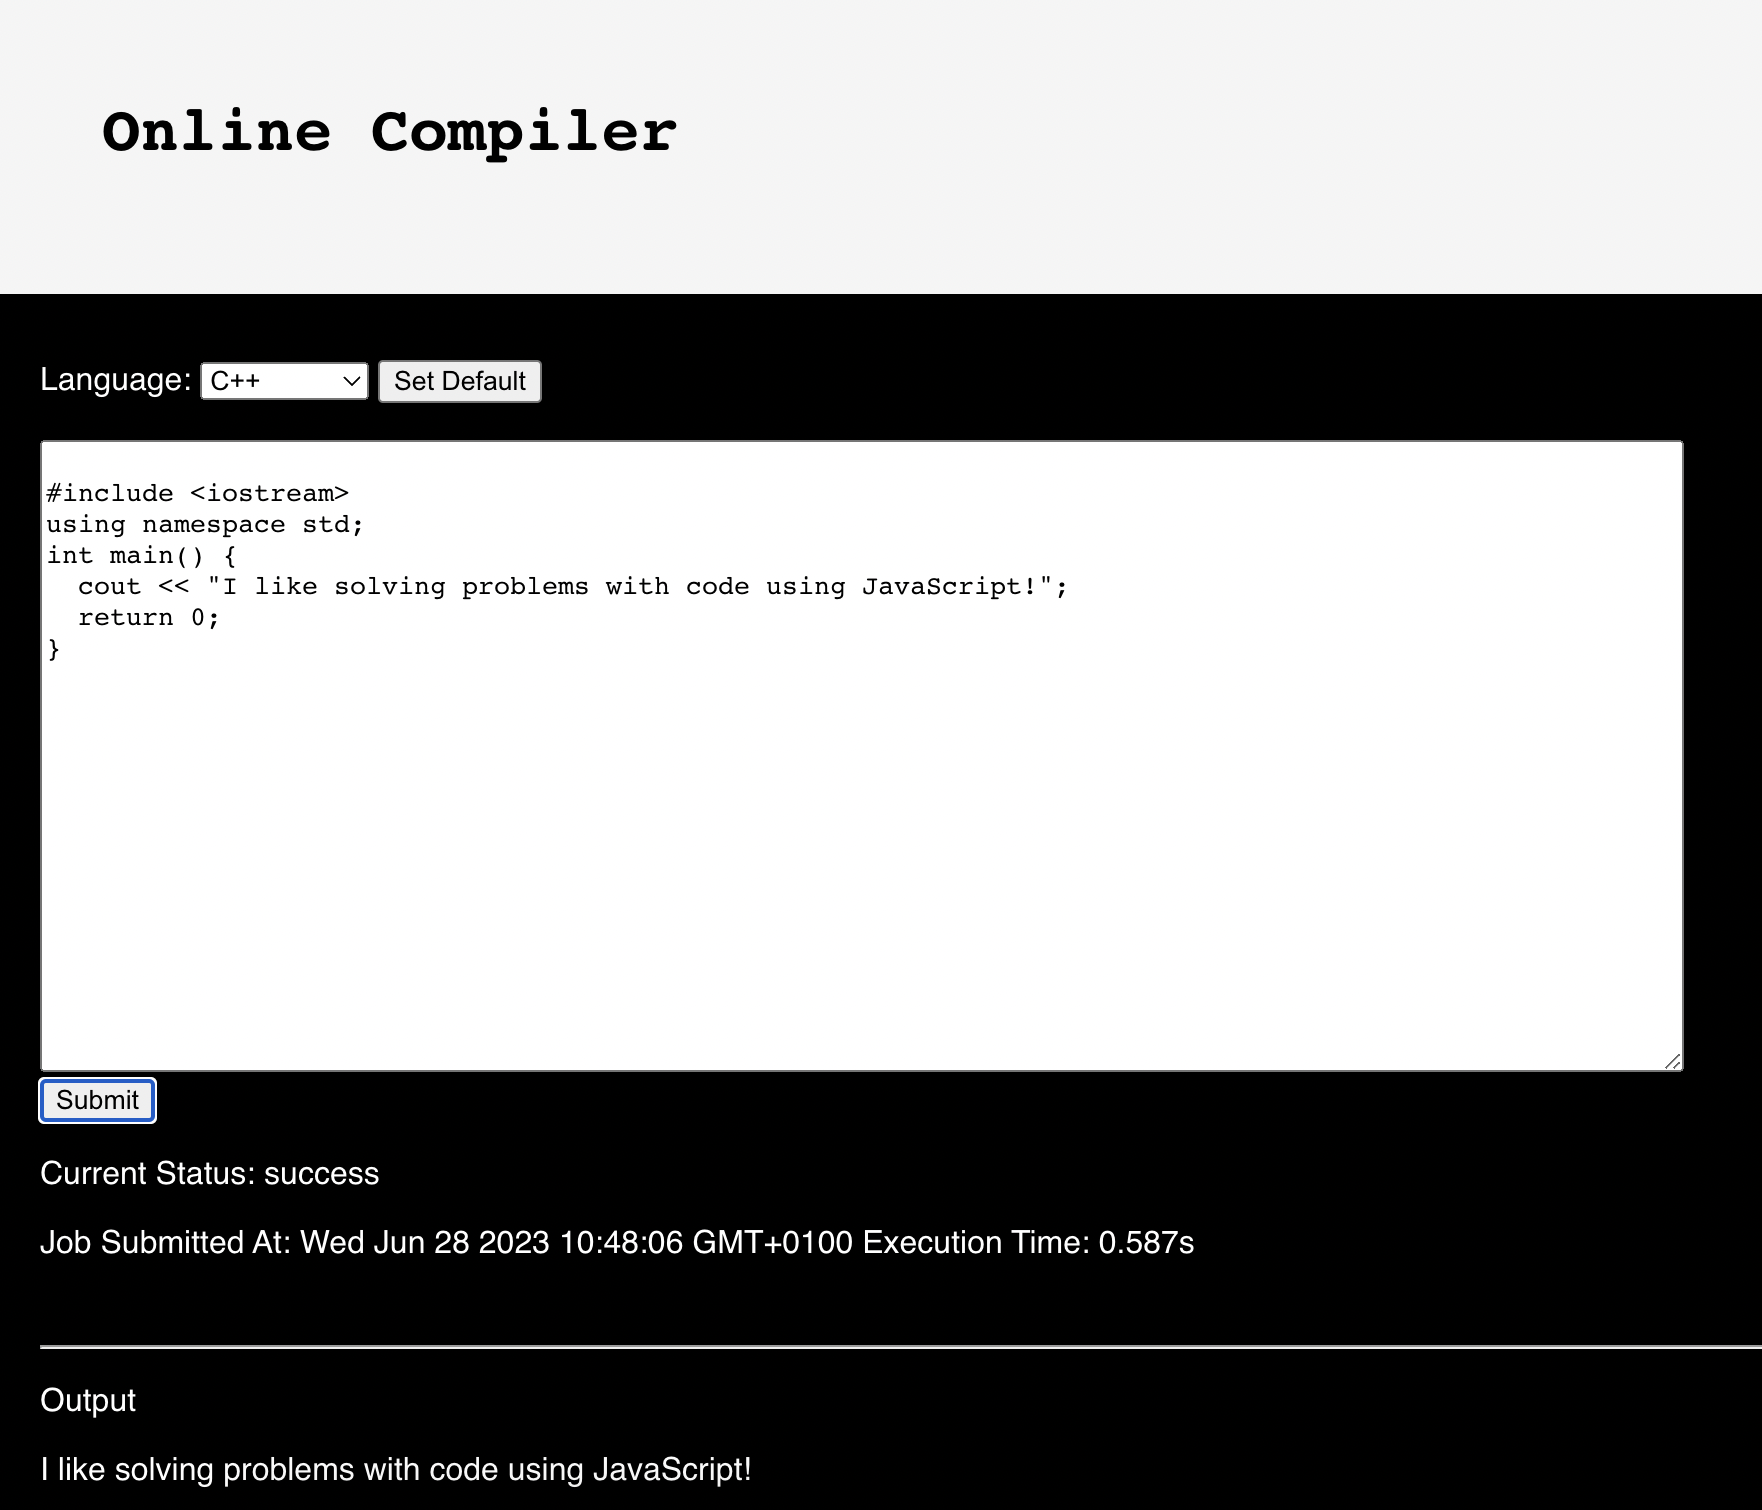
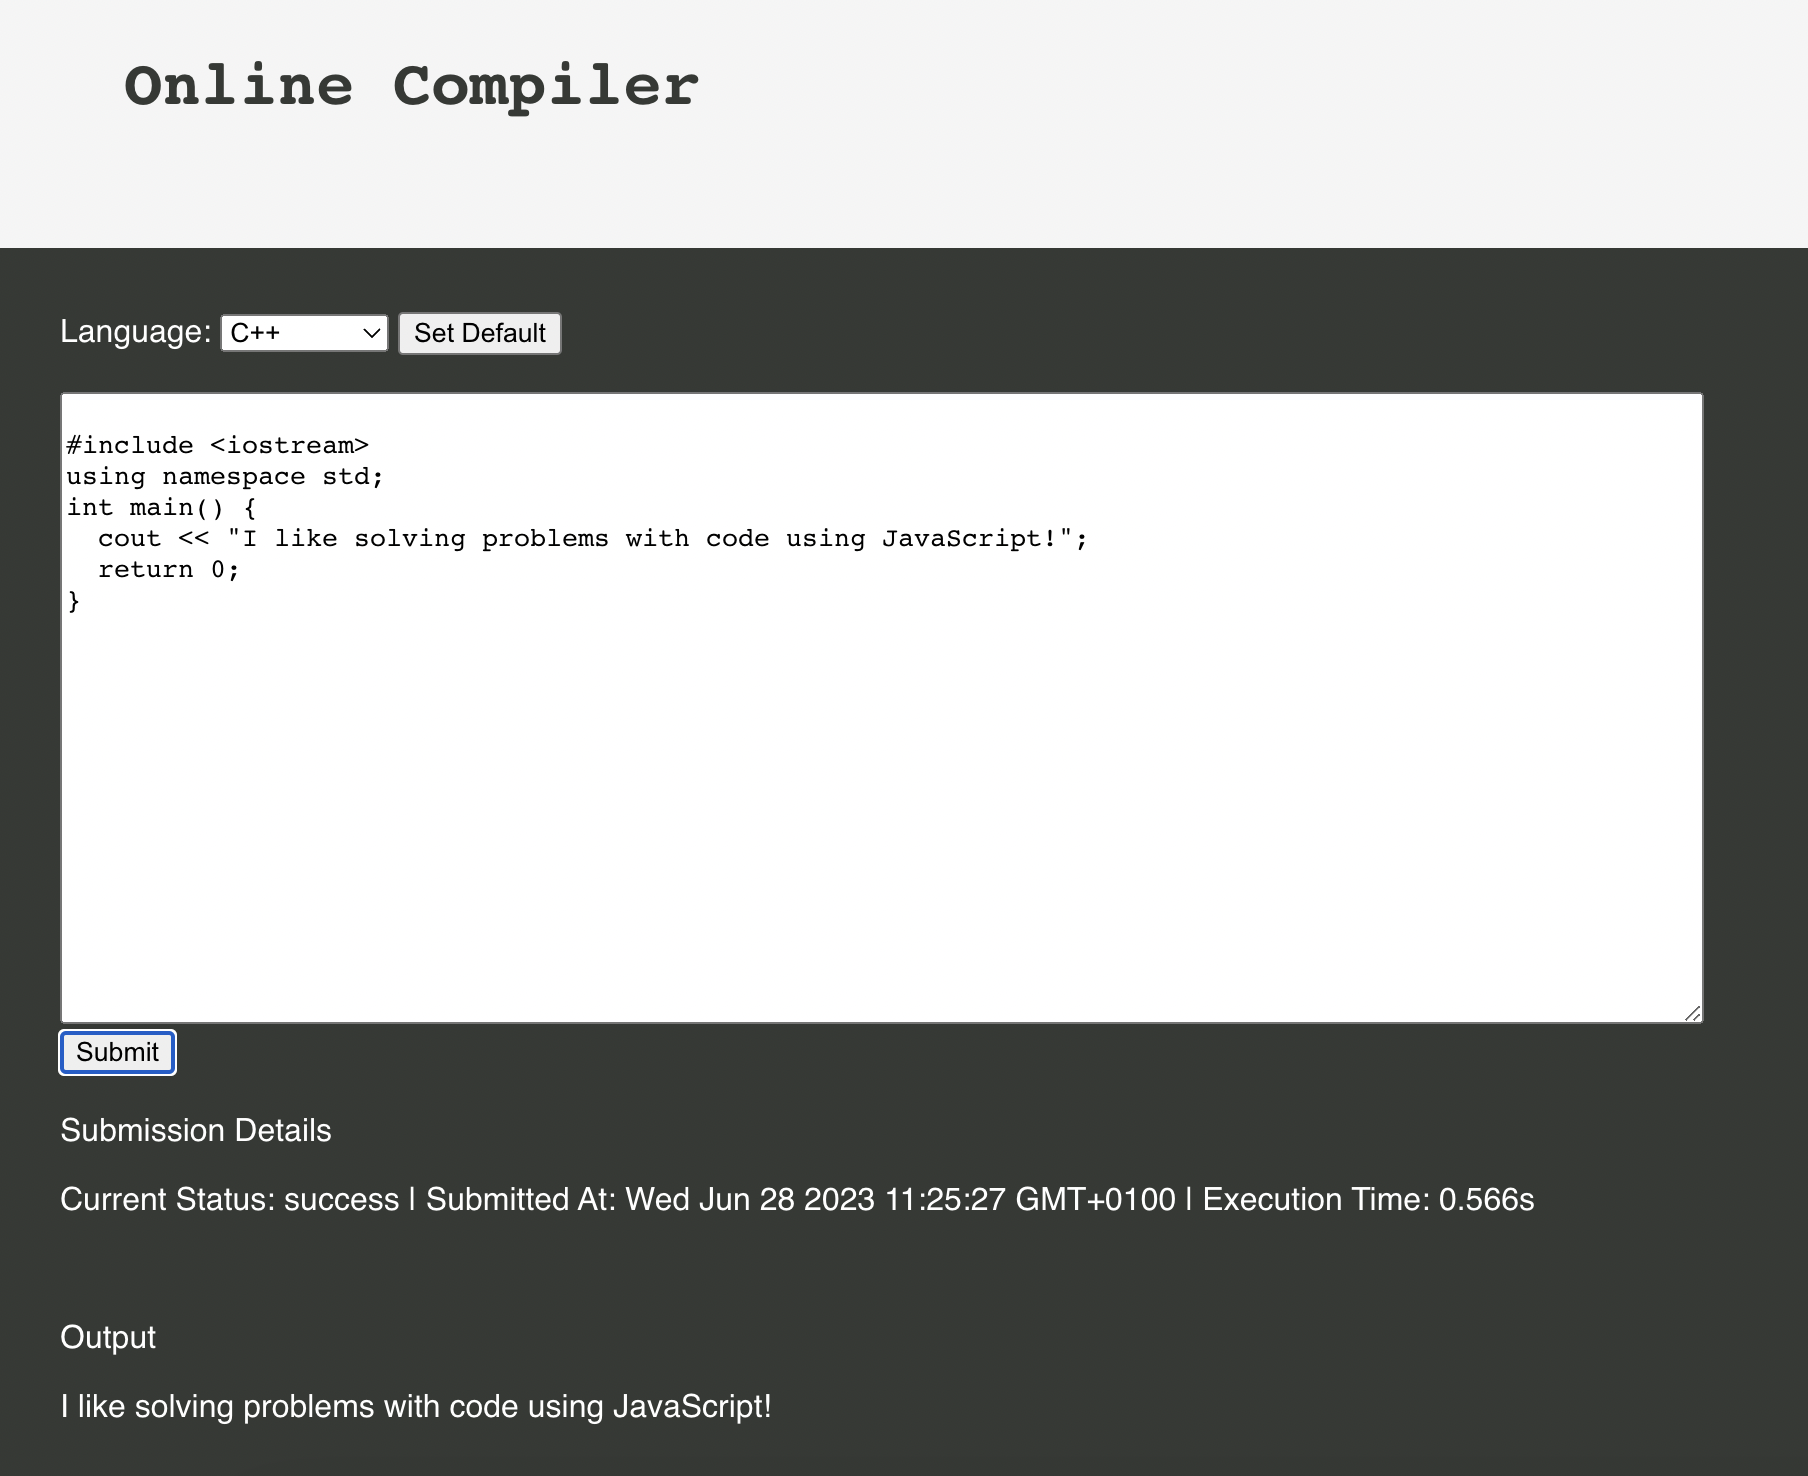
update

diff --git a/client/src/App.js b/client/src/App.js
@@ -36,12 +36,12 @@ function App() {
     let { submittedAt, startedAt, completedAt } = jobDetails;
     let result = "";
     submittedAt = moment(submittedAt).toString();
-    result += `Job Submitted At: ${submittedAt}  `;
+    result += `  Submitted At: ${submittedAt}  `;
     if (!startedAt || !completedAt) return result;
     const start = moment(startedAt);
     const end = moment(completedAt);
     const diff = end.diff(start, "seconds", true);
-    result += `Execution Time: ${diff}s`;
+    result += ` |  Execution Time: ${diff}s`;
     return result;
   }
 
@@ -137,10 +137,11 @@ function App() {
      <br />
      <button onClick={handleSubmit}>Submit</button>
      <br/>
-     <p>Current Status: {status}</p>
-     <p>{renderTimeDetails()}</p>
      <br/>
-     <hr></hr>
+     <label>Submission Details</label>
+     <p>Current Status: {status} | {renderTimeDetails()}</p>
+     <br/>
+
      <p>Output</p>
       <p> {jobId && `${jobId}`}</p>
     </div>

diff --git a/backend/index.js b/backend/index.js
@@ -84,30 +84,3 @@ app.listen(port, () => {
 });
 
 
-
-// code snippet
-
-// --------------------------------------------
-//  c++
-
-// #include <iostream>
-// using namespace std;
-
-// int main() {
-//   cout << "Hello World!";
-//   return 0;
-// }
-
-// --------------------------------------------
-// py
-
-
-// import time 
-
-// from time import sleep
-
-// for i in (1,6):
-//   print(i)
-//   sleep(i)
-
-// --------------------------------------------

diff --git a/client/src/App.css b/client/src/App.css
@@ -20,6 +20,7 @@ body {
   margin: 0;
   font-family: var(--sans);
   background-color: whitesmoke;
+  color: var(--black);
 
   font-size: var(--font-size);
   z-index: 3;
@@ -36,9 +37,9 @@ h1 {
   padding: .5rem;
 }
 .editor {
-  border: 1px solid black;
+
   padding: 2rem;
-  background-color: black;
+  background-color: var(--black);
   color: white;
 }
 
